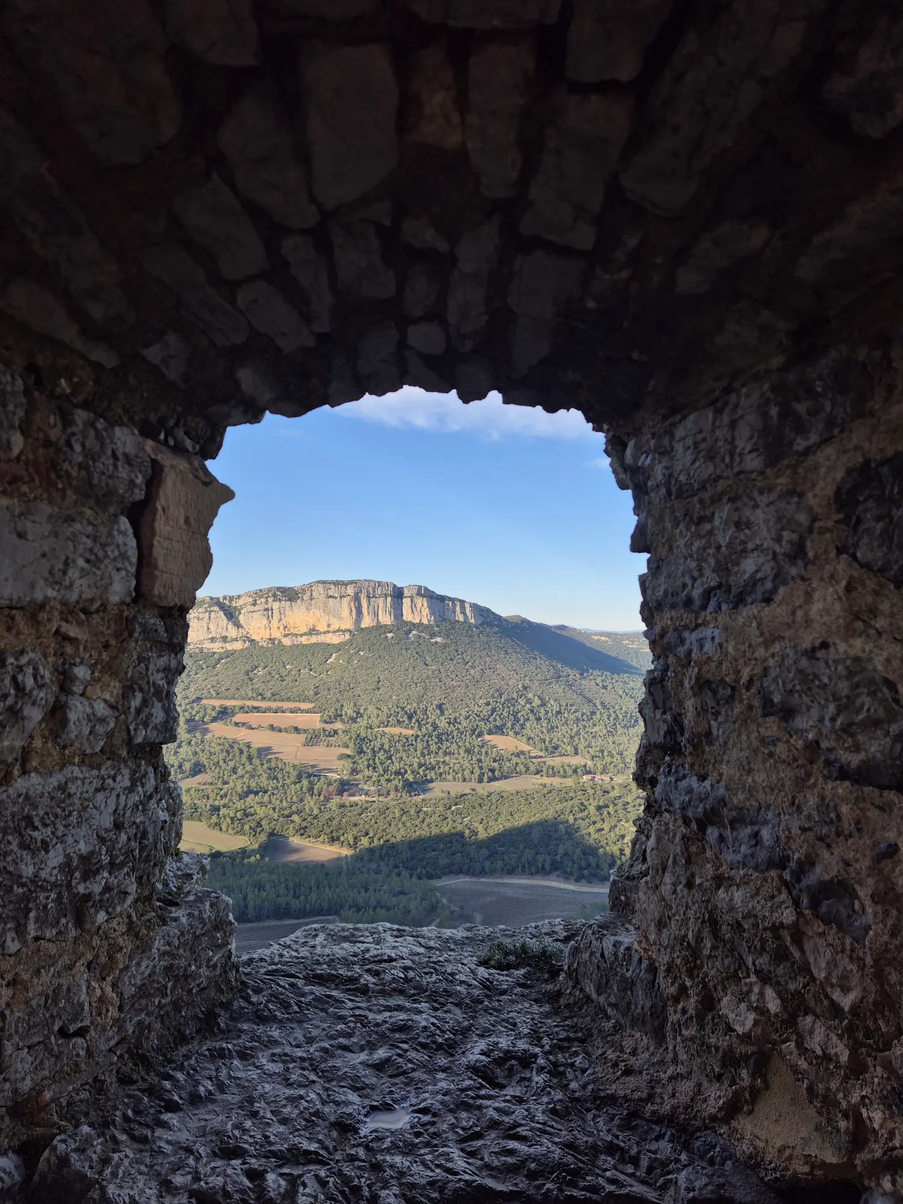
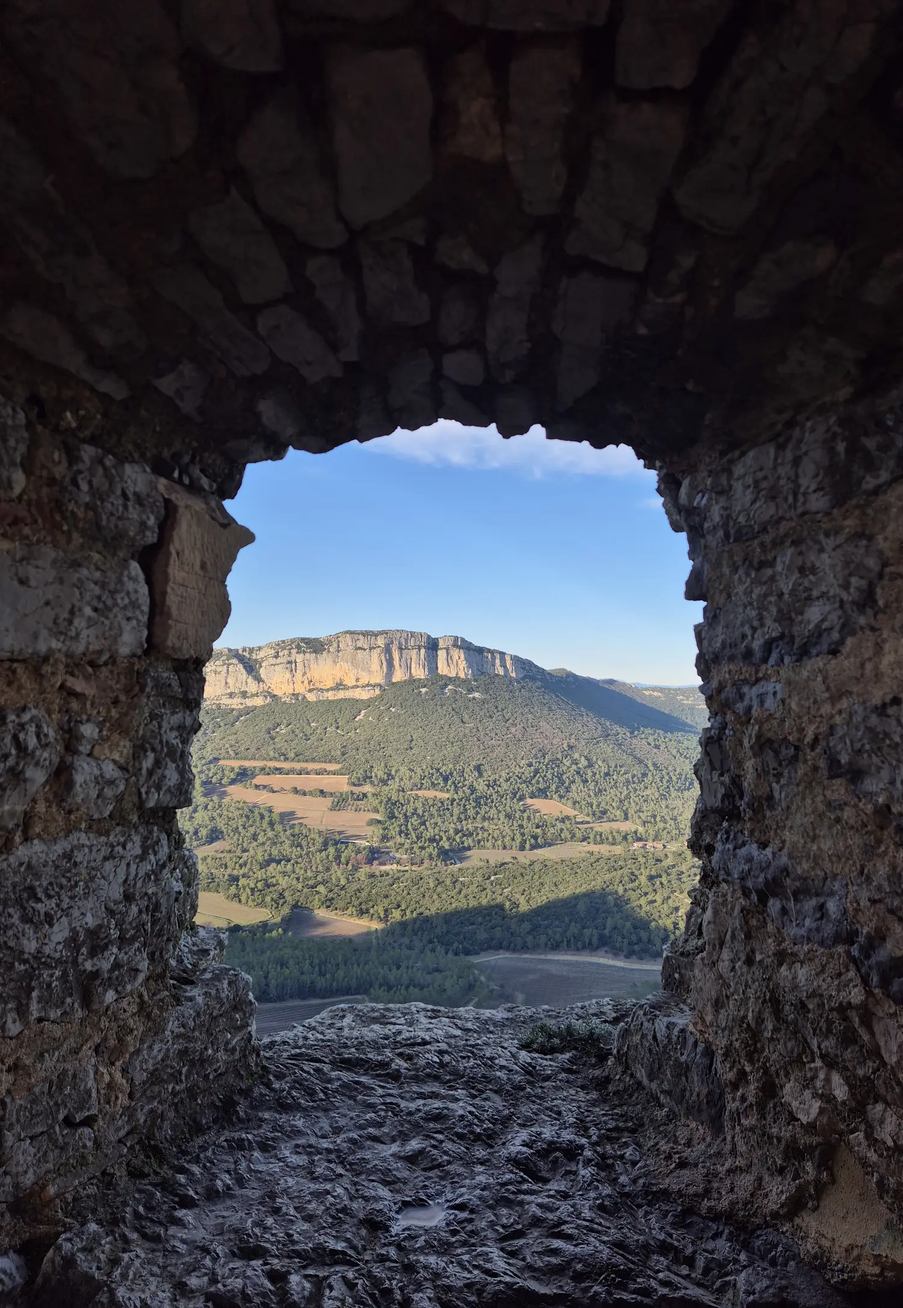
Esbòs : bandèl totjorn de drecha a esquèrra, vèrs centrat dins la fenèstra de pèira (fòto recaptada), Venas d'aur per defaut ; steampunk mes de caire

diff --git a/app/static/esbos-nuech.html b/app/static/esbos-nuech.html
@@ -382,7 +382,8 @@ html.fr .linha:hover .bi > .fr { transform: translateY(125%); }
 .trobador-fenestra img { width: 100%; height: 100%; object-fit: cover; object-position: 50% 56%; transform-origin: 50% 56%; transform: scale(1.3); will-change: transform; }
 .trobador-fenestra::after { content: ''; position: absolute; inset: 0; background: radial-gradient(ellipse at 50% 50%, rgba(18, 9, 6, 0.5), rgba(18, 9, 6, 0.15) 75%), linear-gradient(rgba(18, 9, 6, 0.1), rgba(40, 14, 6, 0.45)); }
 .trobador-vers { position: relative; z-index: 2; text-align: center; padding: 0 var(--marge); }
-.trobador-vers p { max-width: 15em; margin-inline: auto; font-family: var(--votz); font-style: italic; font-size: clamp(2.2rem, 5.6vw, 5.2rem); line-height: 1.08; color: #fff; text-shadow: 0 2px 30px rgba(0, 0, 0, 0.35); }
+/* Lo vèrs ten dins la fenèstra de pèira de la fòto */
+.trobador-vers p { max-width: 12.5em; margin-inline: auto; font-family: var(--votz); font-style: italic; font-size: clamp(1.9rem, 4.2vw, 4rem); line-height: 1.08; color: #fff; text-shadow: 0 2px 30px rgba(0, 0, 0, 0.35); }
 .trobador-vers cite { display: block; margin-top: 1.8rem; font-style: normal; font-size: 0.78rem; font-weight: 700; letter-spacing: 0.28em; text-transform: uppercase; color: var(--aur-clar); }
 
 /* ---------- Acte VII : la crida ---------- */
@@ -445,8 +446,8 @@ footer { padding: 6rem var(--marge) 2rem; border-top: 1px solid var(--crema-3); 
 				</div>
 				<button type="button" class="dalt" data-dalt-boton aria-pressed="false"><span class="dalt-interr" aria-hidden="true"></span><span class="bi"><span class="oc">Colors adaptadas (daltonisme)</span><span class="fr">Couleurs adaptées (daltonisme)</span></span></button>
 				<p class="ambianca-titol"><span class="bi"><span class="oc">Ambiança</span><span class="fr">Ambiance</span></span></p>
-				<label><input type="radio" name="fons" value="1" /><i class="m m1"></i><span class="bi"><span class="oc">Lum e estelas</span><span class="fr">Lumière et étoiles</span></span></label>
 				<label><input type="radio" name="fons" value="0" /><i class="m m0"></i><span class="bi"><span class="oc">Venas d’aur</span><span class="fr">Veines d’or</span></span></label>
+				<label><input type="radio" name="fons" value="1" /><i class="m m1"></i><span class="bi"><span class="oc">Lum e estelas</span><span class="fr">Lumière et étoiles</span></span></label>
 				<label><input type="radio" name="fons" value="2" /><i class="m m2"></i><span class="bi"><span class="oc">Corbas de nivèl</span><span class="fr">Courbes de niveau</span></span></label>
 				<label><input type="radio" name="fons" value="3" /><i class="m m3"></i><span class="bi"><span class="oc">Simple</span><span class="fr">Sobre</span></span></label>
 			</div>
@@ -577,7 +578,7 @@ footer { padding: 6rem var(--marge) 2rem; border-top: 1px solid var(--crema-3); 
 		<div class="trobador-pin">
 			<!-- La vallada de l'Erau vista per una fenèstra de pèira (fòto Romain, 2025) : la fenèstra
 			     de la pagina s'obrís sus una fenèstra vertadièra. -->
-			<div class="trobador-fenestra"><img src="/acuelh/erau.webp" alt="" loading="lazy" decoding="async" width="1500" height="2000" /></div>
+			<div class="trobador-fenestra"><img src="/acuelh/erau.webp" alt="" loading="lazy" decoding="async" width="1500" height="2173" /></div>
 			<blockquote class="trobador-vers">
 				<!-- Max Rouquette (1908-2005), causit per Romain lo 2026-10-06. Doas linhas sonque : tèxte
 				     encara protegit, citacion corta e signada (pensar a las Amis de Max Rouquette). -->
@@ -834,9 +835,9 @@ footer { padding: 6rem var(--marge) 2rem; border-top: 1px solid var(--crema-3); 
 	}));
 
 	/* ================= Ambiança del fons (personalizacion) ================= */
-	// 0 Venas d'aur · 1 Lum e estelas (per defaut) · 2 Corbas de nivèl · 3 Simple.
+	// 0 Venas d'aur (per defaut, la preferida de Romain 2026-10-07) · 1 Lum e estelas · 2 Corbas de nivèl · 3 Simple.
 	// D'autras ambiças se pòdon apondre : un cas de mai dins lo shader e una linha aicí.
-	let modeFons = 1;
+	let modeFons = 0;
 	try { const v = localStorage.getItem('lo-ligam-esbos-fons'); if (v !== null) modeFons = +v; } catch {}
 	const ambBoton = document.querySelector('.ambianca-boton'), ambPanel = document.getElementById('ambianca-panel');
 	document.querySelectorAll('input[name="fons"]').forEach((r) => {
@@ -1421,20 +1422,20 @@ footer { padding: 6rem var(--marge) 2rem; border-top: 1px solid var(--crema-3); 
 	if (calm) vers.classList.add('vist');
 	const manifest = document.querySelector('[data-emplenar]');
 	const bandel = document.querySelector('.bandel'), bandelPista = document.querySelector('.bandel-pista');
-	let bandelX = 0, bandelSkew = 0, bandelDir = 1, ultimY = scrollY;
+	let bandelX = 0, bandelSkew = 0, ultimY = scrollY;
 
 	function segonDefilament(sy, vel) {
 		// Capçal : s'amaga en davalant, torna en remontant
 		if (!calm && Math.abs(sy - ultimY) > 0.3) head.classList.toggle('amagat', sy > H * 0.7 && sy > ultimY);
 		head.classList.toggle('solid', sy > 40);
-		if (Math.abs(sy - ultimY) > 0.5) bandelDir = sy > ultimY ? 1 : -1;
 		ultimY = sy;
 
 		// Bandèl : sa velocitat e son inclinason seguisson lo defilament
 		const rb = bandel.getBoundingClientRect();
 		if (rb.bottom > 0 && rb.top < H) {
 			const largor = bandelPista.scrollWidth / 2;
-			bandelX -= calm ? 0 : (0.55 + Math.min(Math.abs(vel) * 0.35, 14)) * bandelDir;
+			// Totjorn de drecha a esquèrra (demanda Romain 2026-10-07) : lo defilament l'accelèra sonque
+		bandelX -= calm ? 0 : 0.55 + Math.min(Math.abs(vel) * 0.35, 14);
 			bandelX = ((bandelX % largor) - largor) % largor;
 			bandelSkew = lerp(bandelSkew, calm ? 0 : clamp(vel * 0.4, -9, 9), 0.12);
 			bandelPista.style.transform = `translate3d(${bandelX}px,0,0) skewX(${-bandelSkew}deg)`;

diff --git a/app/src/lib/stores/ambianca.svelte.js b/app/src/lib/stores/ambianca.svelte.js
@@ -27,7 +27,7 @@ function crearEstat() {
 	const e = $state({
 		tema: 'sorne',
 		dalt: false,
-		fons: 1,
+		fons: 0, // Venas d'aur, l'ambiança preferida de Romain (2026-10-07)
 		forçarClar: false,
 		sistèmaClar: false,
 		// Vrai tant qu'une page affiche le fond animé : le choix du fond

diff --git a/app/src/lib/components/AmbiancaPanel.svelte b/app/src/lib/components/AmbiancaPanel.svelte
@@ -35,8 +35,8 @@
 		}
 	};
 	let tx = $derived(t[lang]);
-	// Ordre d'affichage : la plus reposante d'abord
-	const ORDRE_FONS = [1, 0, 2, 3];
+	// Ordre d'affichage : l'ambiance par défaut (Venas d'aur) d'abord
+	const ORDRE_FONS = [0, 1, 2, 3];
 
 	$effect(() => {
 		if (!dobèrt) return;

diff --git a/PILOTATGE.md b/PILOTATGE.md
@@ -42,7 +42,7 @@ photos.
 | 1 | **Toilettage documentaire** | ✅ fait le 2026-09-18 | 18 corrections vérifiées par relecture de contrôle (cahier v0.6, §11 complété, bandeaux sur les 4 docs de juillet, charte à jour, cursus annoté, §9 question 15 ajoutée, titre unité 2 harmonisé en « D'ont siás ? ») | Claude |
 | 2 | **Séance « Estructura » : blocs & concept** | **prochaine séance (choix de Romain, 18-09)** | Consolider l'ossature avant de remplir : (a) le concept en une page, avec les mots de Romain ; (b) `estructura-site.md` — tous les blocs du site, page par page, chacun avec rôle / état / source de remplissage (livre de Romain, ses photos, sa plume, API, Claude) | ensemble |
 | 2b | **Séance d'arbitrage** (questions ouvertes) | après la séance Estructura | Claude pose les questions une par une, Romain tranche ou classe « plus tard » explicitement ; tout part au §11 | ensemble |
-| 2c | **Redesign visuel — méthode** (révisée 30-09, §11) | Claude Design **en pause** (Romain s'y éparpillait) ; retour aux **planches comparées** dans la conversation graphismes (Canva + captures de Romain, planches et code de Claude) | **Maqueta « acuèlh editorial aerat » v1 livrée le 30-09** (`app/static/maqueta-acuelh.html`, visible sur /maqueta-acuelh.html du serveur local) : héros photo+titre géant, survols, apparitions au scroll, bande parallaxe, CTA final — analyse leoparpeix.com faite (Lenis, 144 px, 2 couleurs). **✅ INTÉGRÉ au vrai accueil le 05-10, passe « hauts standards » le 06-10** (§11 : menu-voile éditorial — logique typographique inversée le 06-10 au soir : familles en grand Limelight, pages en Luciole lisible —, pied de page clair sans icônes, révélation rideau du héros, **encre qui s'étend lettre à lettre** au survol via scramble.js, partout sur le site). Piste ouverte : fonds en mouvement au défilement — parallaxe 2,5D depuis les photos découpées en plans, puis camera-mapping Blender (boucle WebM sobre) ; Romain fournit photo découpée ou première scène Blender. Restent : validation dicodòc des nouveaux textes (héros, « Prèst·a ») · semer hero_kicker / hero_l1-l3 / hero_sub2 dans /admin/textes · l'alignement « L'OCCITAN » corrigé (espace fantôme du letter-spacing) · effet d'encre au survol remplacé par une transition de couleur (incompatible scramble) — à raffiner si Romain veut. **➜ 06-10 au soir : NOUVELLE BASE = « esbòs de nuèch »** (`app/static/esbos-nuech.html`, §11) : fond sombre vivant, croix-constellation qui se forme / s'éparpille / se reforme, traduction au survol, défilement horizontal. Validée par Romain comme base. Prochaines étapes : reprendre les couleurs · personnaliser le fond vivant (plus de sens dans son univers) · valider l'occitan nouveau (« Passatz la mirga suls tres mots », « Quatre camins », « ensems », mots du bandeau) · carte en étoiles ✅ (304 lieux), rivières ✅ (Natural Earth, noms occitans à valider) et relief ✅ (courbes de niveau, tuiles Mapzen) le 06-10 ; carte cliquable vers /carta ✅ ; récit de l accueil repositionné le 06-10 (cours en visio, rendez-vous, parcours autonome, « Tres biais d aprene ») avec phrase-clé PROPOSITION A en attendant le choix de Romain ; sélecteur « Ambiança » ✅ (thème sombre / clair / système + couleurs adaptées au daltonisme ; 4 fonds : Lum e estelas par défaut, Venas d aur, Corbas de nivèl, Simple ; principe : site personnalisable, d autres réglages à venir) · **cadre commun ✅ porté dans le vrai site le 07-10** (en-tête refait sur toutes les pages, pied de page partout, réglages d ambiance : thème sombre/clair/système + daltonisme, mémorisés, posés dès le premier affichage ; pages pas encore harmonisées maintenues en clair, liste ARMONIZADAS) · prochaines étapes : porter l accueil esbòs, puis carte, mots, òbras, parcours · galerie « Afichas » sur /obras ✅ (7 affiches, source Occitanica ; **À FAIRE avant publication : liens Occitanica de chaque notice, fournis par Romain** → champ ligam dans src/lib/data/afichas.js) · **source lexicale : Lexic de Max Roqueta** (J.-G. Roqueta, éd. 2020, Modules_cors/Base_donnees_linguistica, 124 p.) → mots du bandeau de l esbòs (11 mots, à valider) ; à exploiter aussi pour les leçons (Romain) · **demande 07-10 : une ambiance « steampunk » douce en option** (végétal + invention, machines de Nantes, carnets de Léonard), planche d essai à faire · rendez-vous ✅ branchés le 06-10 sur la page de réservation Proton Calendar de Romain (visio Proton Meet ; à reporter dans le vrai site), passage d échelles vers /carta · **découper le nòrd-occitan en auvernhat / lemosin / vivaroaupenc** dans `SIG/Dialecte` (Romain, QGIS, guidé) pour afficher 6 dialectes · puis porter la base dans le vrai site SvelteKit | ensemble |
+| 2c | **Redesign visuel — méthode** (révisée 30-09, §11) | Claude Design **en pause** (Romain s'y éparpillait) ; retour aux **planches comparées** dans la conversation graphismes (Canva + captures de Romain, planches et code de Claude) | **Maqueta « acuèlh editorial aerat » v1 livrée le 30-09** (`app/static/maqueta-acuelh.html`, visible sur /maqueta-acuelh.html du serveur local) : héros photo+titre géant, survols, apparitions au scroll, bande parallaxe, CTA final — analyse leoparpeix.com faite (Lenis, 144 px, 2 couleurs). **✅ INTÉGRÉ au vrai accueil le 05-10, passe « hauts standards » le 06-10** (§11 : menu-voile éditorial — logique typographique inversée le 06-10 au soir : familles en grand Limelight, pages en Luciole lisible —, pied de page clair sans icônes, révélation rideau du héros, **encre qui s'étend lettre à lettre** au survol via scramble.js, partout sur le site). Piste ouverte : fonds en mouvement au défilement — parallaxe 2,5D depuis les photos découpées en plans, puis camera-mapping Blender (boucle WebM sobre) ; Romain fournit photo découpée ou première scène Blender. Restent : validation dicodòc des nouveaux textes (héros, « Prèst·a ») · semer hero_kicker / hero_l1-l3 / hero_sub2 dans /admin/textes · l'alignement « L'OCCITAN » corrigé (espace fantôme du letter-spacing) · effet d'encre au survol remplacé par une transition de couleur (incompatible scramble) — à raffiner si Romain veut. **➜ 06-10 au soir : NOUVELLE BASE = « esbòs de nuèch »** (`app/static/esbos-nuech.html`, §11) : fond sombre vivant, croix-constellation qui se forme / s'éparpille / se reforme, traduction au survol, défilement horizontal. Validée par Romain comme base. Prochaines étapes : reprendre les couleurs · personnaliser le fond vivant (plus de sens dans son univers) · valider l'occitan nouveau (« Passatz la mirga suls tres mots », « Quatre camins », « ensems », mots du bandeau) · carte en étoiles ✅ (304 lieux), rivières ✅ (Natural Earth, noms occitans à valider) et relief ✅ (courbes de niveau, tuiles Mapzen) le 06-10 ; carte cliquable vers /carta ✅ ; récit de l accueil repositionné le 06-10 (cours en visio, rendez-vous, parcours autonome, « Tres biais d aprene ») avec phrase-clé PROPOSITION A en attendant le choix de Romain ; sélecteur « Ambiança » ✅ (thème sombre / clair / système + couleurs adaptées au daltonisme ; 4 fonds : Lum e estelas par défaut, Venas d aur, Corbas de nivèl, Simple ; principe : site personnalisable, d autres réglages à venir) · **cadre commun ✅ porté dans le vrai site le 07-10** (en-tête refait sur toutes les pages, pied de page partout, réglages d ambiance : thème sombre/clair/système + daltonisme, mémorisés, posés dès le premier affichage ; pages pas encore harmonisées maintenues en clair, liste ARMONIZADAS) · prochaines étapes : porter l accueil esbòs, puis carte, mots, òbras, parcours · galerie « Afichas » sur /obras ✅ (7 affiches, source Occitanica ; **À FAIRE avant publication : liens Occitanica de chaque notice, fournis par Romain** → champ ligam dans src/lib/data/afichas.js) · **source lexicale : Lexic de Max Roqueta** (J.-G. Roqueta, éd. 2020, Modules_cors/Base_donnees_linguistica, 124 p.) → mots du bandeau de l esbòs (11 mots, à valider) ; à exploiter aussi pour les leçons (Romain) · **ambiance steampunk mise de côté le 07-10** (planche esbos-engenh.html jugée « trop IA » par Romain ; il cherchera des sources plus discrètes) ; **Venas d aur = ambiance par défaut** (préférée de Romain), teintes à rendre plus joyeuses, plus proches de ses publications Instagram · ancienne note : demande 07-10 : une ambiance « steampunk » douce en option** (végétal + invention, machines de Nantes, carnets de Léonard), planche d essai à faire · rendez-vous ✅ branchés le 06-10 sur la page de réservation Proton Calendar de Romain (visio Proton Meet ; à reporter dans le vrai site), passage d échelles vers /carta · **découper le nòrd-occitan en auvernhat / lemosin / vivaroaupenc** dans `SIG/Dialecte` (Romain, QGIS, guidé) pour afficher 6 dialectes · puis porter la base dans le vrai site SvelteKit | ensemble |
 | 2d | **Logo + nouvelle typographie** (30-09, §11) | logo croix-constellation en cours dans Canva (symbole ✅ test favicon, carré ✅) ; typo Barrio/Limelight/corps tranchée | **Logo ✅ intégré (variante C) et polices ✅ migrées le 30-09** (Barrio/Limelight/Luciole auto-hébergées, vérifié à l'écran). Master Canva ✅ répercuté en C et réexporté (8 SVG, dont un nouveau format nom-en-arc). Palette ✅ alignée sur le logo le 30-09 (§11). Restent : crédit Luciole (CC BY) sur la future page accessibilité · direction redesign « éditorial aéré » actée au §11 · rappels d'erreur Vercel à éteindre (projet fantôme côté compte Vercel de Romain, rien dans le dépôt). Bibliothèque de blocs comparés toujours à bâtir (Romain juge le graphisme actuel « trop classique Claude ») — à articuler avec Estructura (2) | Claude |
 | 3 | **Module 0** (« L'occitan… Kezako ? ») | bloqué | Romain écrit son brouillon d'intro d'une page, depuis ses livres et sa vision ; Claude met en forme ensuite | Romain |
 | 4 | **Audio de l'unité 1** (sa voix) | bloqué | Enregistrer UNE scène (le soir du 1.1) au téléphone pour relancer la machine — les LISTA.txt de chaque dossier disent quoi enregistrer | Romain |
